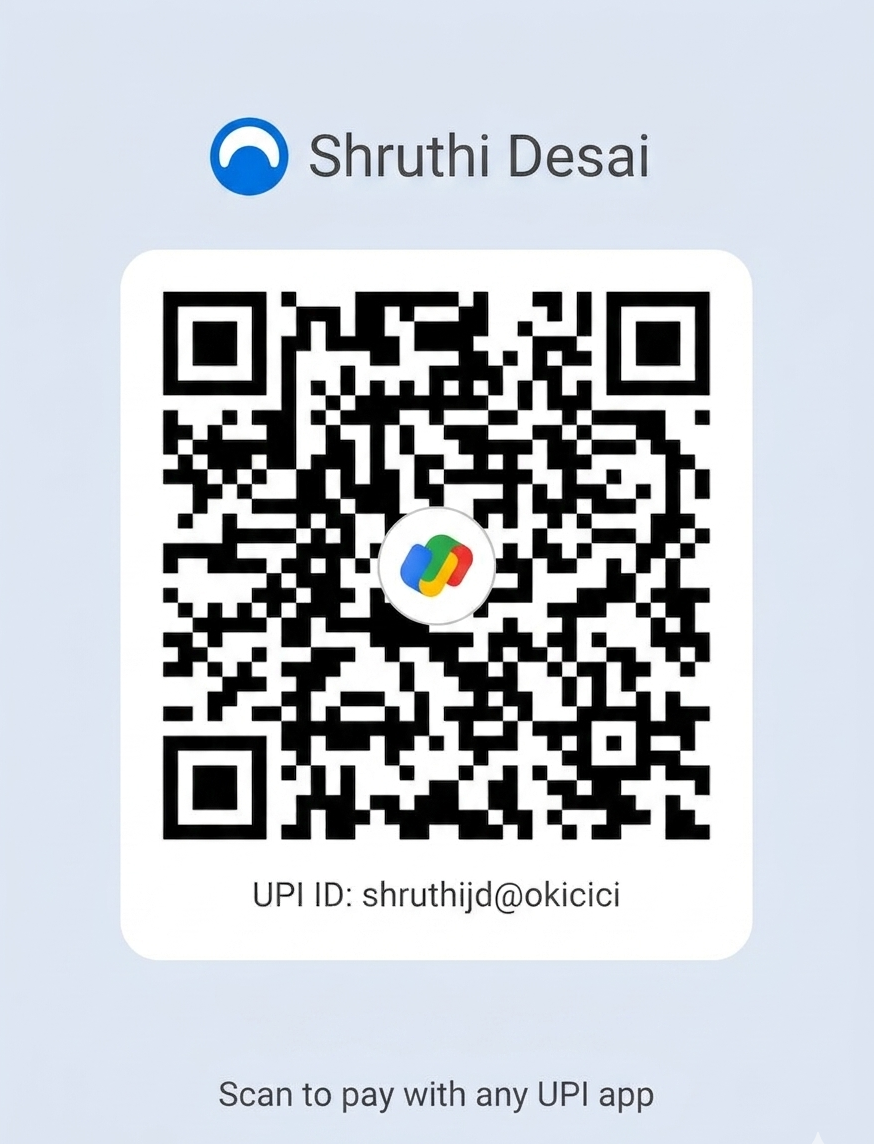
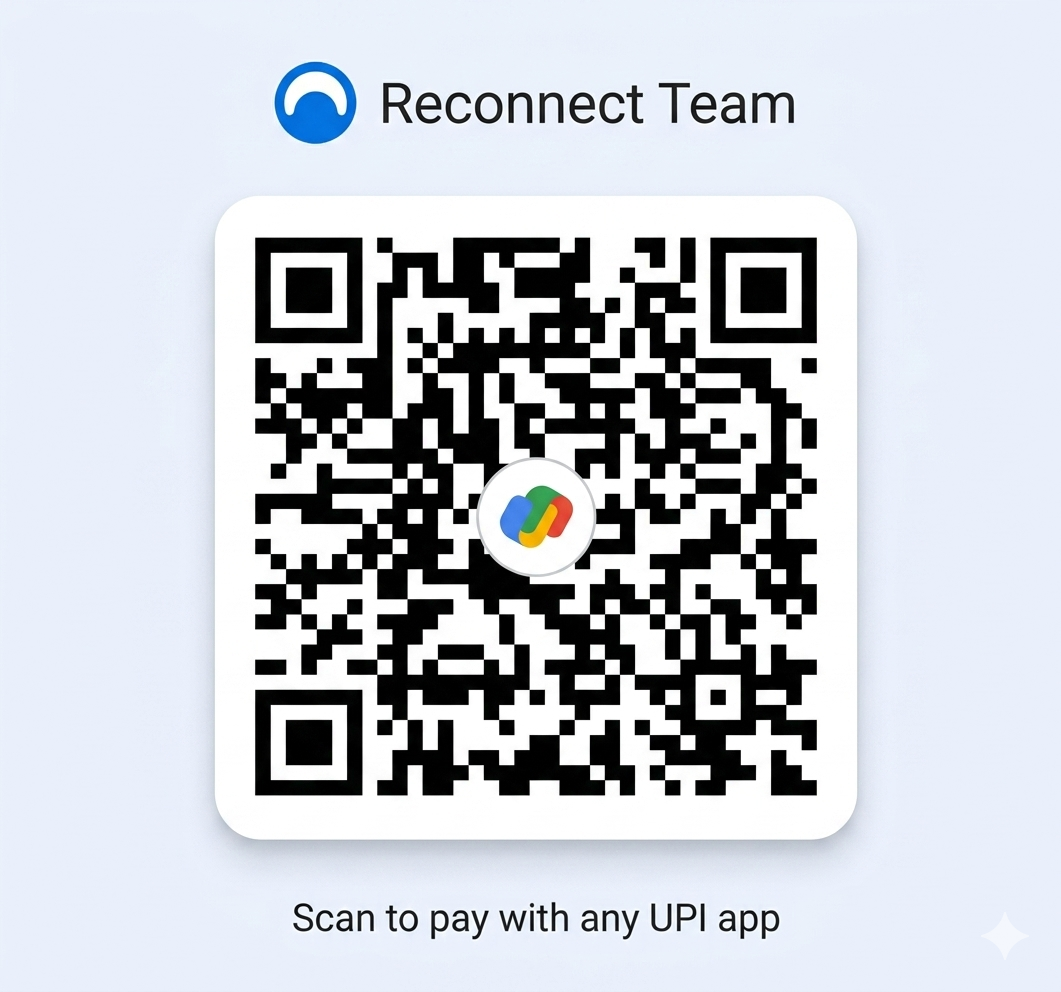
contact: swap UPI QR to Reconnect-branded image (no personal name) + fix aspect

Changed region(s): [[0.1854, 0.0625, 0.8341, 0.875], [0.2471, 0.9062, 0.7414, 0.9688]]

diff --git a/src/app/contact/_components/ContactForm.tsx b/src/app/contact/_components/ContactForm.tsx
@@ -122,8 +122,8 @@ export default function ContactForm() {
               <Image
                 src="/qr-reconnect.png"
                 alt="QR code — scan to book your Reconnect consultation"
-                width={220}
-                height={288}
+                width={260}
+                height={243}
                 className="rounded-[16px] hairline shadow-card bg-white"
               />
               <p className="text-caption text-ink-soft">Scan to book your consultation</p>
